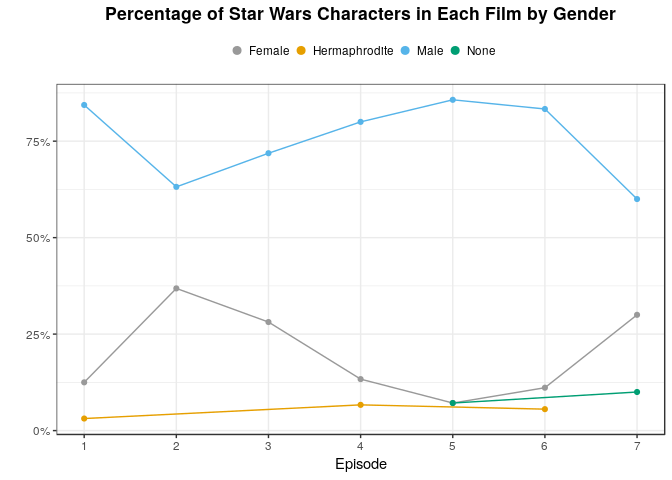
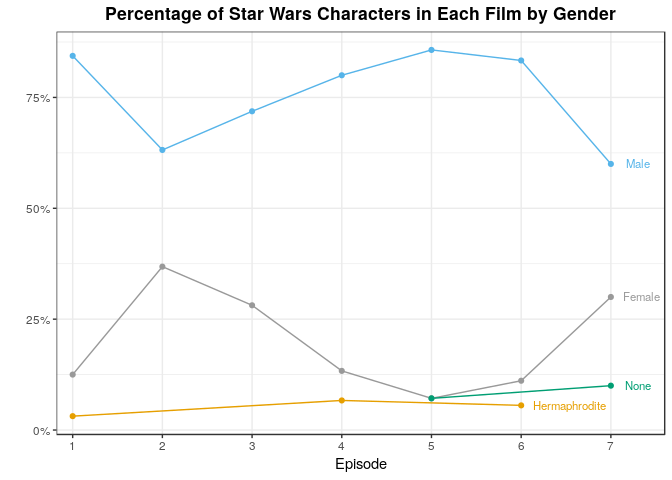
bubble

diff --git a/source/Chart_Collection.md b/source/Chart_Collection.md
@@ -1,7 +1,7 @@
 Chart Collection
 ================
 Jesse Cambon
-18 August, 2018
+19 August, 2018
 
 -   [Readme](#readme)
 -   [References](#references)
@@ -10,6 +10,7 @@ Jesse Cambon
 -   [Chart Types](#chart-types)
     -   [Distribution](#distribution)
         -   [Histogram](#histogram)
+        -   [Ridgeplot](#ridgeplot)
         -   [Population Pyramid](#population-pyramid)
         -   [Boxplot](#boxplot)
         -   [Dotplot](#dotplot)
@@ -19,10 +20,10 @@ Jesse Cambon
         -   [Bar](#bar)
     -   [Correlation](#correlation)
         -   [Scatterplot](#scatterplot)
+        -   [Bubbleplot](#bubbleplot)
     -   [Evolution](#evolution)
         -   [Line](#line)
         -   [Stacked Area](#stacked-area)
-        -   [Ridgeplot](#ridgeplot)
     -   [Composition](#composition)
         -   [Treemap](#treemap)
         -   [Waffle](#waffle)
@@ -68,6 +69,7 @@ library(ggrepel) # text labels
 library(treemapify) # ggplot treemap
 library(treemap) 
 library(viridis) # colors
+library(gapminder) # gdp life expectancy data
 
 # Set default ggplot theme
 theme_set(theme_bw()+
@@ -207,6 +209,25 @@ guides(fill = guide_legend(title='Gender'))
 
 ![](Chart_Collection_files/figure-markdown_github/histogram-1.png)
 
+### Ridgeplot
+
+<https://cran.r-project.org/web/packages/ggridges/vignettes/introduction.html>
+
+``` r
+ggplot(lincoln_weather , aes(x = `Mean Wind Speed[MPH]`, y = `Month`, fill = ..x..)) +
+  geom_density_ridges_gradient(scale =2, rel_min_height = 0.01) +
+  scale_y_discrete(expand=c(0,0,0.2,0)) + # add top margin
+  scale_x_continuous(expand=c(0,0)) +
+  theme(legend.position='none') +
+  scale_fill_viridis(option='C',direction=-1) +
+  labs(title = 'Daily Mean Wind Speeds in Lincoln, NE in 2016') +
+  xlab('Mean Wind Speed (MPH)')
+```
+
+    ## Picking joint bandwidth of 1.32
+
+![](Chart_Collection_files/figure-markdown_github/ridge-1.png)
+
 ### Population Pyramid
 
 ``` r
@@ -226,12 +247,14 @@ titanic_age_sex <- titanic3 %>% as_tibble() %>%
 
 ggplot(data=titanic_age_sex %>% mutate(sex=capitalize(sex)), aes(x = age_cat, y = n, fill = sex)) + 
 geom_bar(stat='identity',color='black',size=0.25) +  
+#  facet_grid(~sex,scales='free',space='free') +
   scale_y_continuous(limits=c(-240,240),
     breaks = seq(-240, 240, 80), 
                      labels = as.character(c(seq(240,0,-80), seq(80,240,80)))) + 
   coord_flip() + 
   scale_fill_manual(values = wes_palette('Darjeeling2')[c(2,3)]) +
-  theme(legend.position='top',panel.grid.minor.x=element_blank()) +
+  theme(legend.position='top',panel.grid.minor.x=element_blank(),
+        strip.placement = "outside") +
   labs(title='Passengers on the Titanic') +
   xlab('Age') +
   ylab('Passengers') +
@@ -429,6 +452,29 @@ guides(color=guide_legend(title='Gender',override.aes = list(size=2.5)))
 
 ![](Chart_Collection_files/figure-markdown_github/scatter-1.png)
 
+### Bubbleplot
+
+``` r
+ggplot(data=gapminder %>% filter(year==2007),
+          aes(x = gdpPercap, y = lifeExp, color = continent,size=pop,group=1)) +
+geom_point() +
+  # remove legend margins
+theme( legend.margin=margin(0,0,0,0),
+      legend.box.margin=margin(0,0,0,0),
+      legend.pos='right') +
+scale_x_continuous(labels=scales::dollar) +
+geom_smooth(method="loess",show.legend=F,size=0.5) + # Regression line
+#scale_color_manual(values=wes_palette('Royal2')) +
+labs(title='Relationship between GDP per capita and Life Expectancy for Countries',
+     caption='Data is for 2007') +
+xlab('GDP Per Capita (USD, inflation-adjusted)') +
+ylab('Life Expectancy (at birth)') +
+guides(color=guide_legend(title='Continent',override.aes = list(size=2.5)),
+       size=guide_legend(title='Population'))
+```
+
+![](Chart_Collection_files/figure-markdown_github/bubbleplot-1.png)
+
 Evolution
 ---------
 
@@ -463,13 +509,27 @@ guides(colour = guide_legend(override.aes = list(size=2.5)))
 # Number of characters from each species 
 ggplot(data=starwars_gender_film %>% mutate(gender=capitalize(gender)),
           aes(x = episode, y=prop,color = gender)) +
+# show.legend=F prevents the geom (in this case a line) from being in the legend
 geom_line(show.legend=F) + geom_point() +
-scale_x_continuous(breaks=c(1:7)) +
+geom_text_repel( # Labels
+    data = starwars_gender_film %>% mutate(gender=capitalize(gender)) %>%
+      group_by(gender) %>% filter(episode==max(episode)), # only display label on last episode
+    aes(label =gender),
+    size = 3,
+    nudge_x=0.3,
+    point.padding=.4, # give the data points room
+    force = 1,
+    box.padding = 0.2, # use this to control label spacing
+    segment.color = NA,
+    show.legend = F # need this to fix legend
+  ) +
+scale_x_continuous(breaks=c(1:7),expand=c(0.03,0,0.1,0)) +
 scale_y_continuous(labels=scales::percent) + 
 scale_color_manual(values=cbPalette) +
 labs(title='Percentage of Star Wars Characters in Each Film by Gender') +
 theme(legend.title = element_blank(),
-      panel.grid.minor.x = element_blank()) +
+      panel.grid.minor.x = element_blank(),
+      legend.position='none') +
 xlab('Episode') +
 ylab('') +
   guides(color=guide_legend(title='Gender',override.aes = list(size=2.5)))
@@ -496,25 +556,6 @@ ylab('')
 ```
 
 ![](Chart_Collection_files/figure-markdown_github/stackedarea-1.png)
-
-### Ridgeplot
-
-<https://cran.r-project.org/web/packages/ggridges/vignettes/introduction.html>
-
-``` r
-ggplot(lincoln_weather , aes(x = `Mean Wind Speed[MPH]`, y = `Month`, fill = ..x..)) +
-  geom_density_ridges_gradient(scale =2, rel_min_height = 0.01) +
-  scale_y_discrete(expand=c(0,0,0.2,0)) + # add top margin
-  scale_x_continuous(expand=c(0,0)) +
-  theme(legend.position='none') +
-  scale_fill_viridis(option='C',direction=-1) +
-  labs(title = 'Daily Mean Wind Speeds in Lincoln, NE in 2016') +
-  xlab('Mean Wind Speed (MPH)')
-```
-
-    ## Picking joint bandwidth of 1.32
-
-![](Chart_Collection_files/figure-markdown_github/ridge-1.png)
 
 Composition
 -----------
